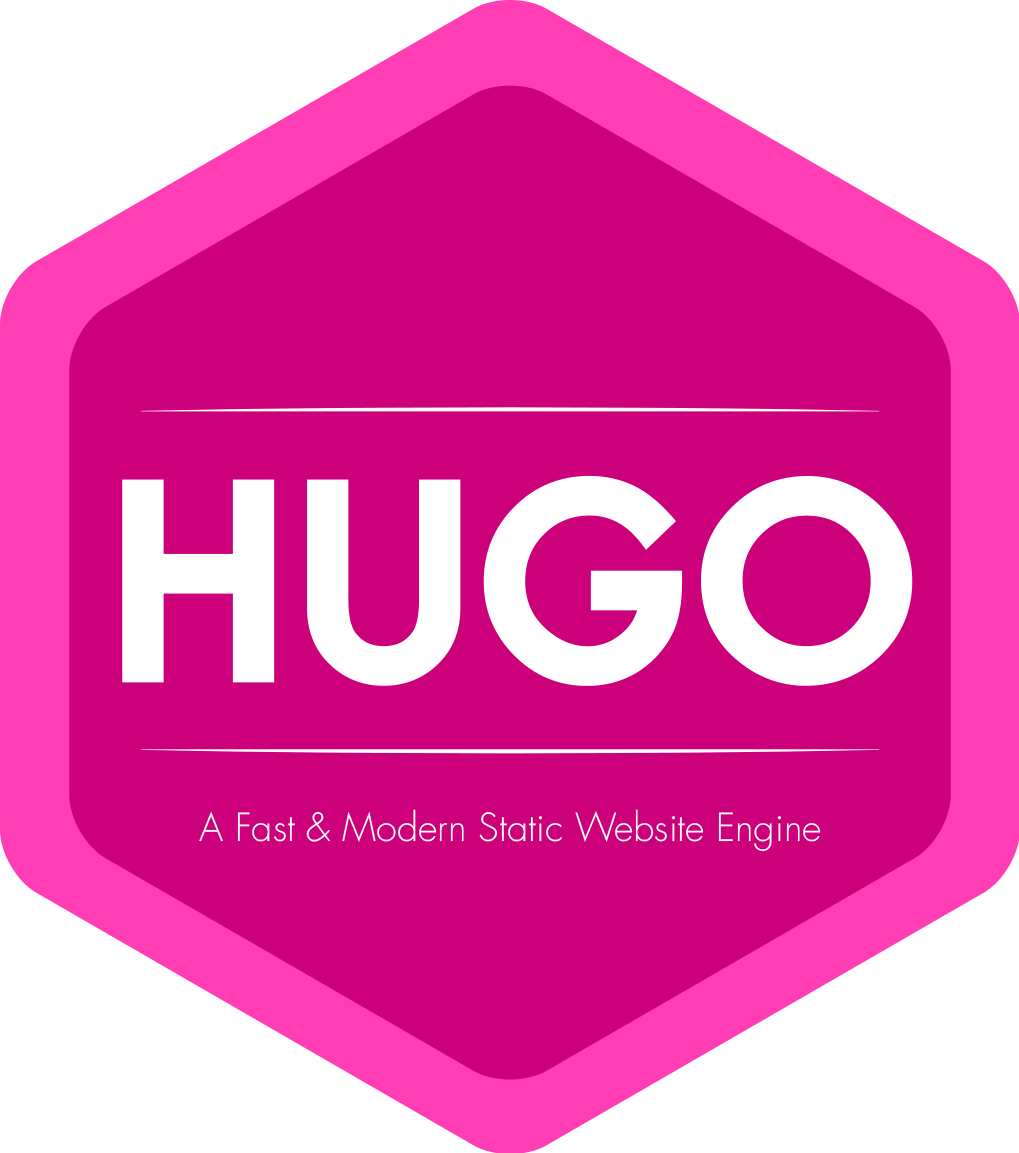
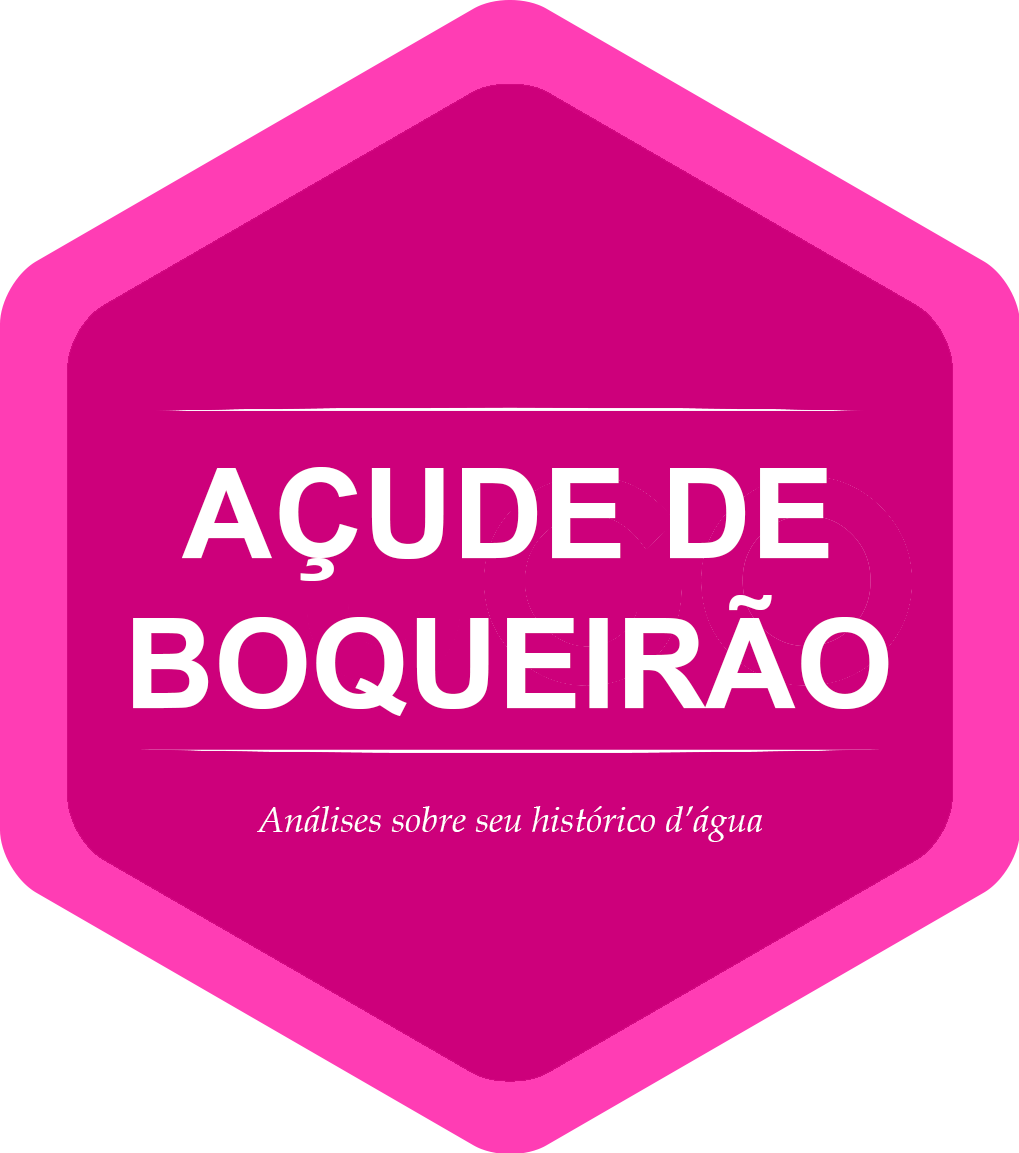
Primeiras alterações

Changed region(s): [[0.1217, 0.4059, 0.9127, 0.6245], [0.2434, 0.6869, 0.791, 0.7493]]

diff --git a/docs/index.html b/docs/index.html
@@ -7,7 +7,7 @@
     <meta name="description" content="">
     <meta name="author" content="">
 
-    <title>my new web site</title>
+    <title>A�ude de Boqueir�o</title>
 
     
     <link href="https://luciojp.github.io/boqueiraoVI/css/bootstrap-theme.css" rel="stylesheet">
@@ -29,16 +29,10 @@
     <div id="top" class="header">
       <div class="vert-text">
         <a href="#intro"><img src="https://luciojp.github.io/boqueiraoVI//img/hugo.png" class="logo"></a>
-        <div class="siteTitle">my new web site</div>
-        <div class="description">I &lt;3 making web site</div>
+        <div class="siteTitle">A�ude de Boqueir�o</div>
+        <div class="description">Uma an�lise sobre os n�veis do a�ude</div>
         <div class="buttonbox">
        
-            <a href="https://twitter.com/SBootstrap" class="btn btn-default btn-lg"><i class="icon-twitter"></i> <span class="network-name">twitter</span></a>
-        
-            <a href="https://github.com/IronSummitMedia/startbootstrap" class="btn btn-default btn-lg"><i class="icon-github"></i> <span class="network-name">github</span></a>
-        
-            <a href="" class="btn btn-default btn-lg"><i class="icon-linkedin"></i> <span class="network-name">linkedin</span></a>
-        
         </div>
       </div>
     </div>
